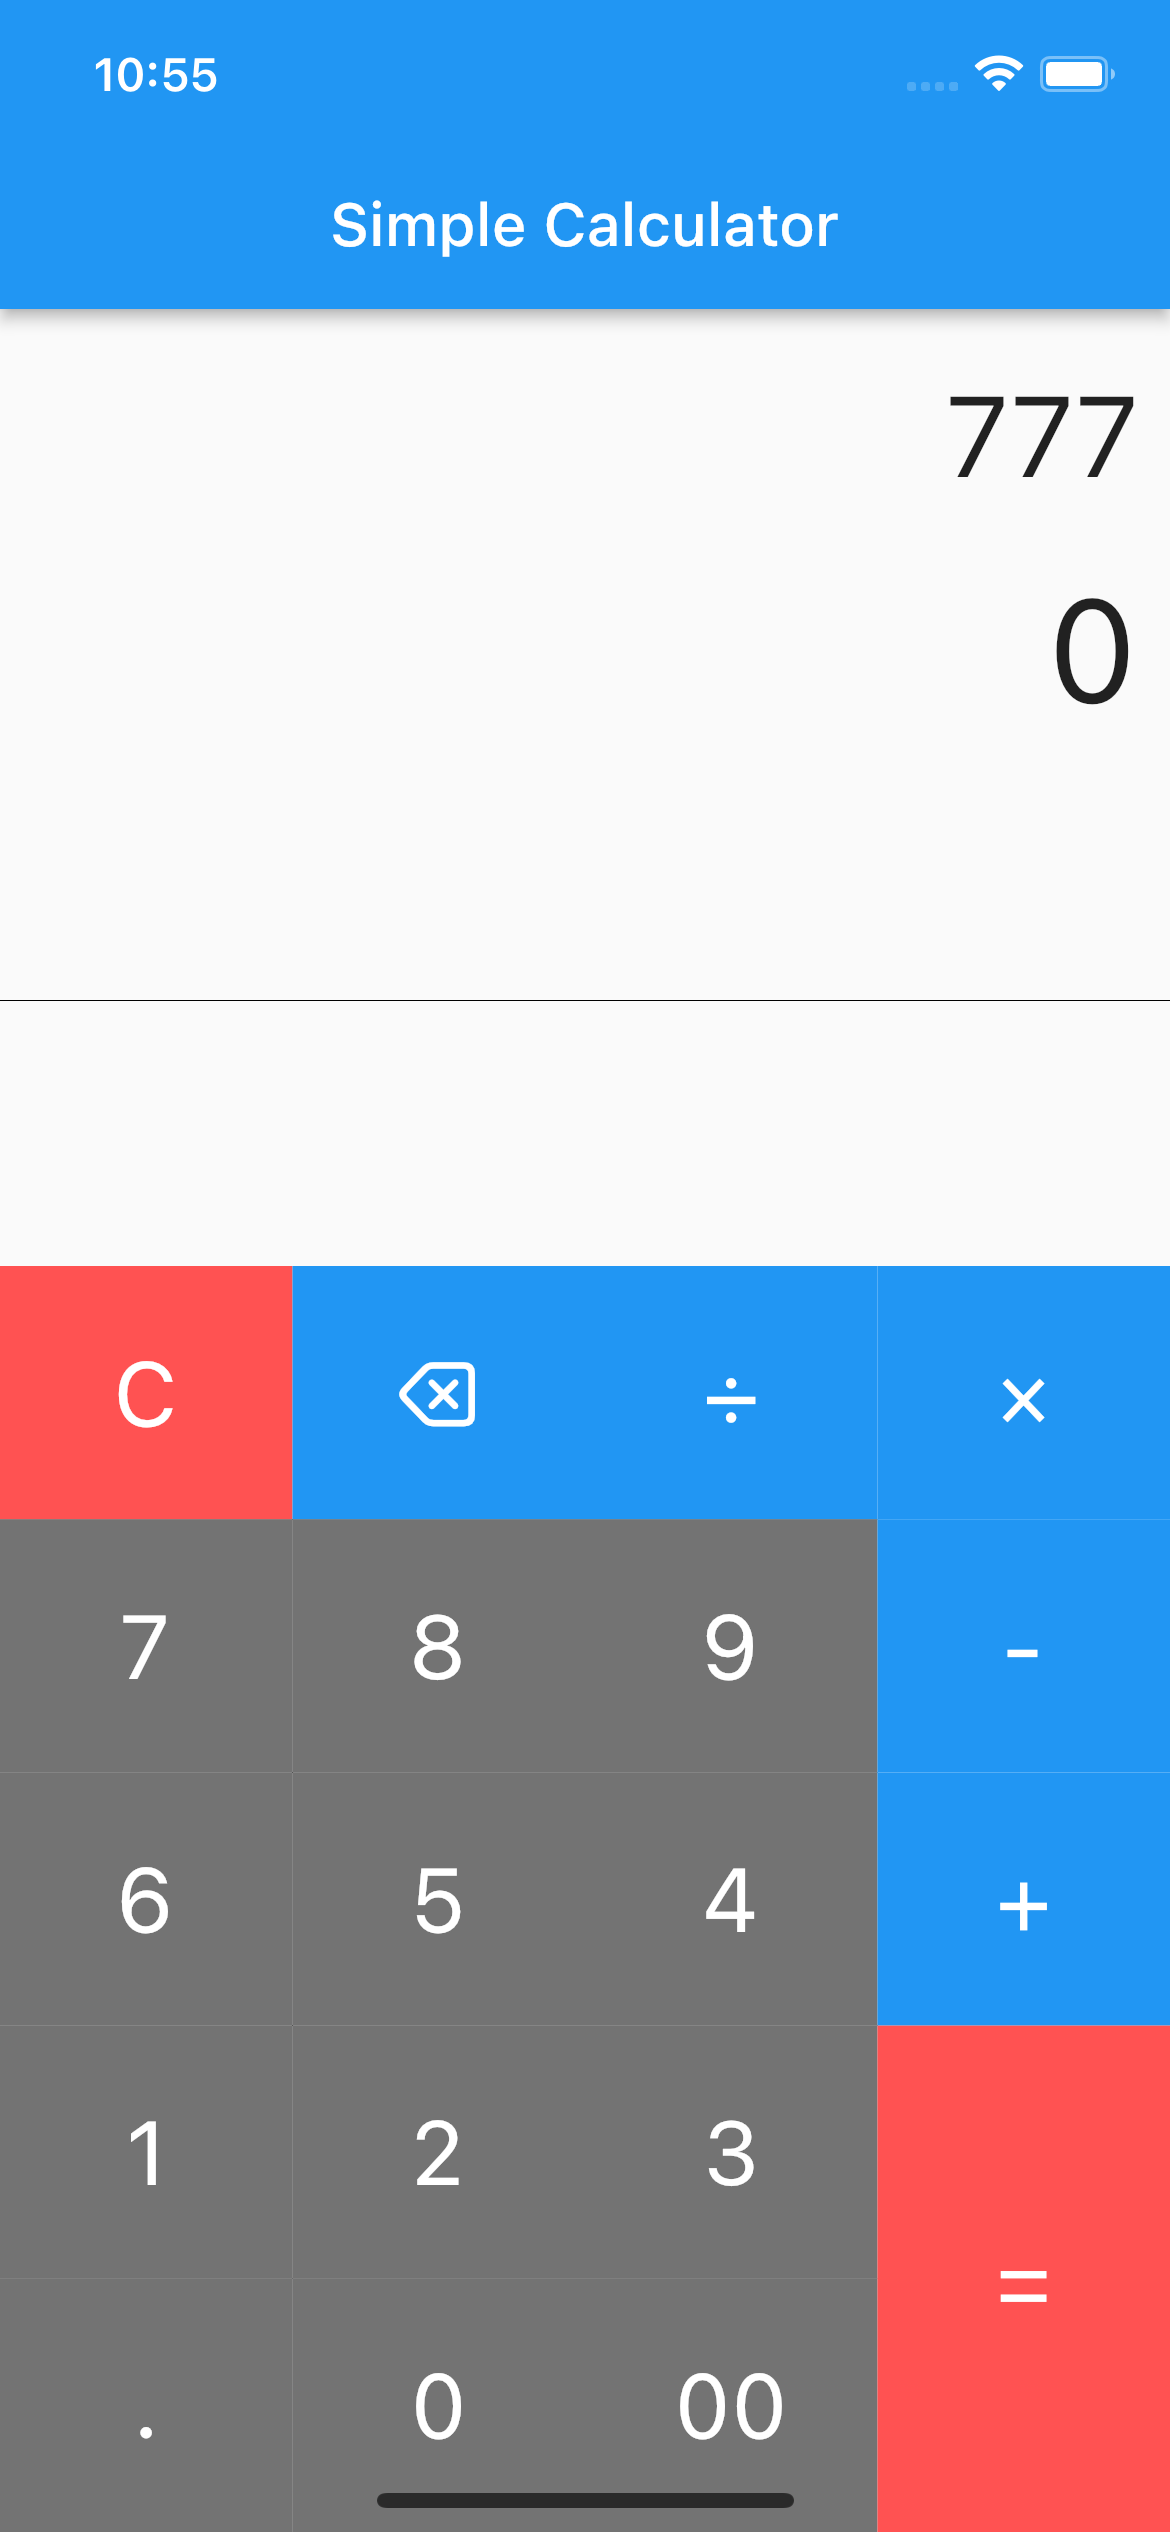
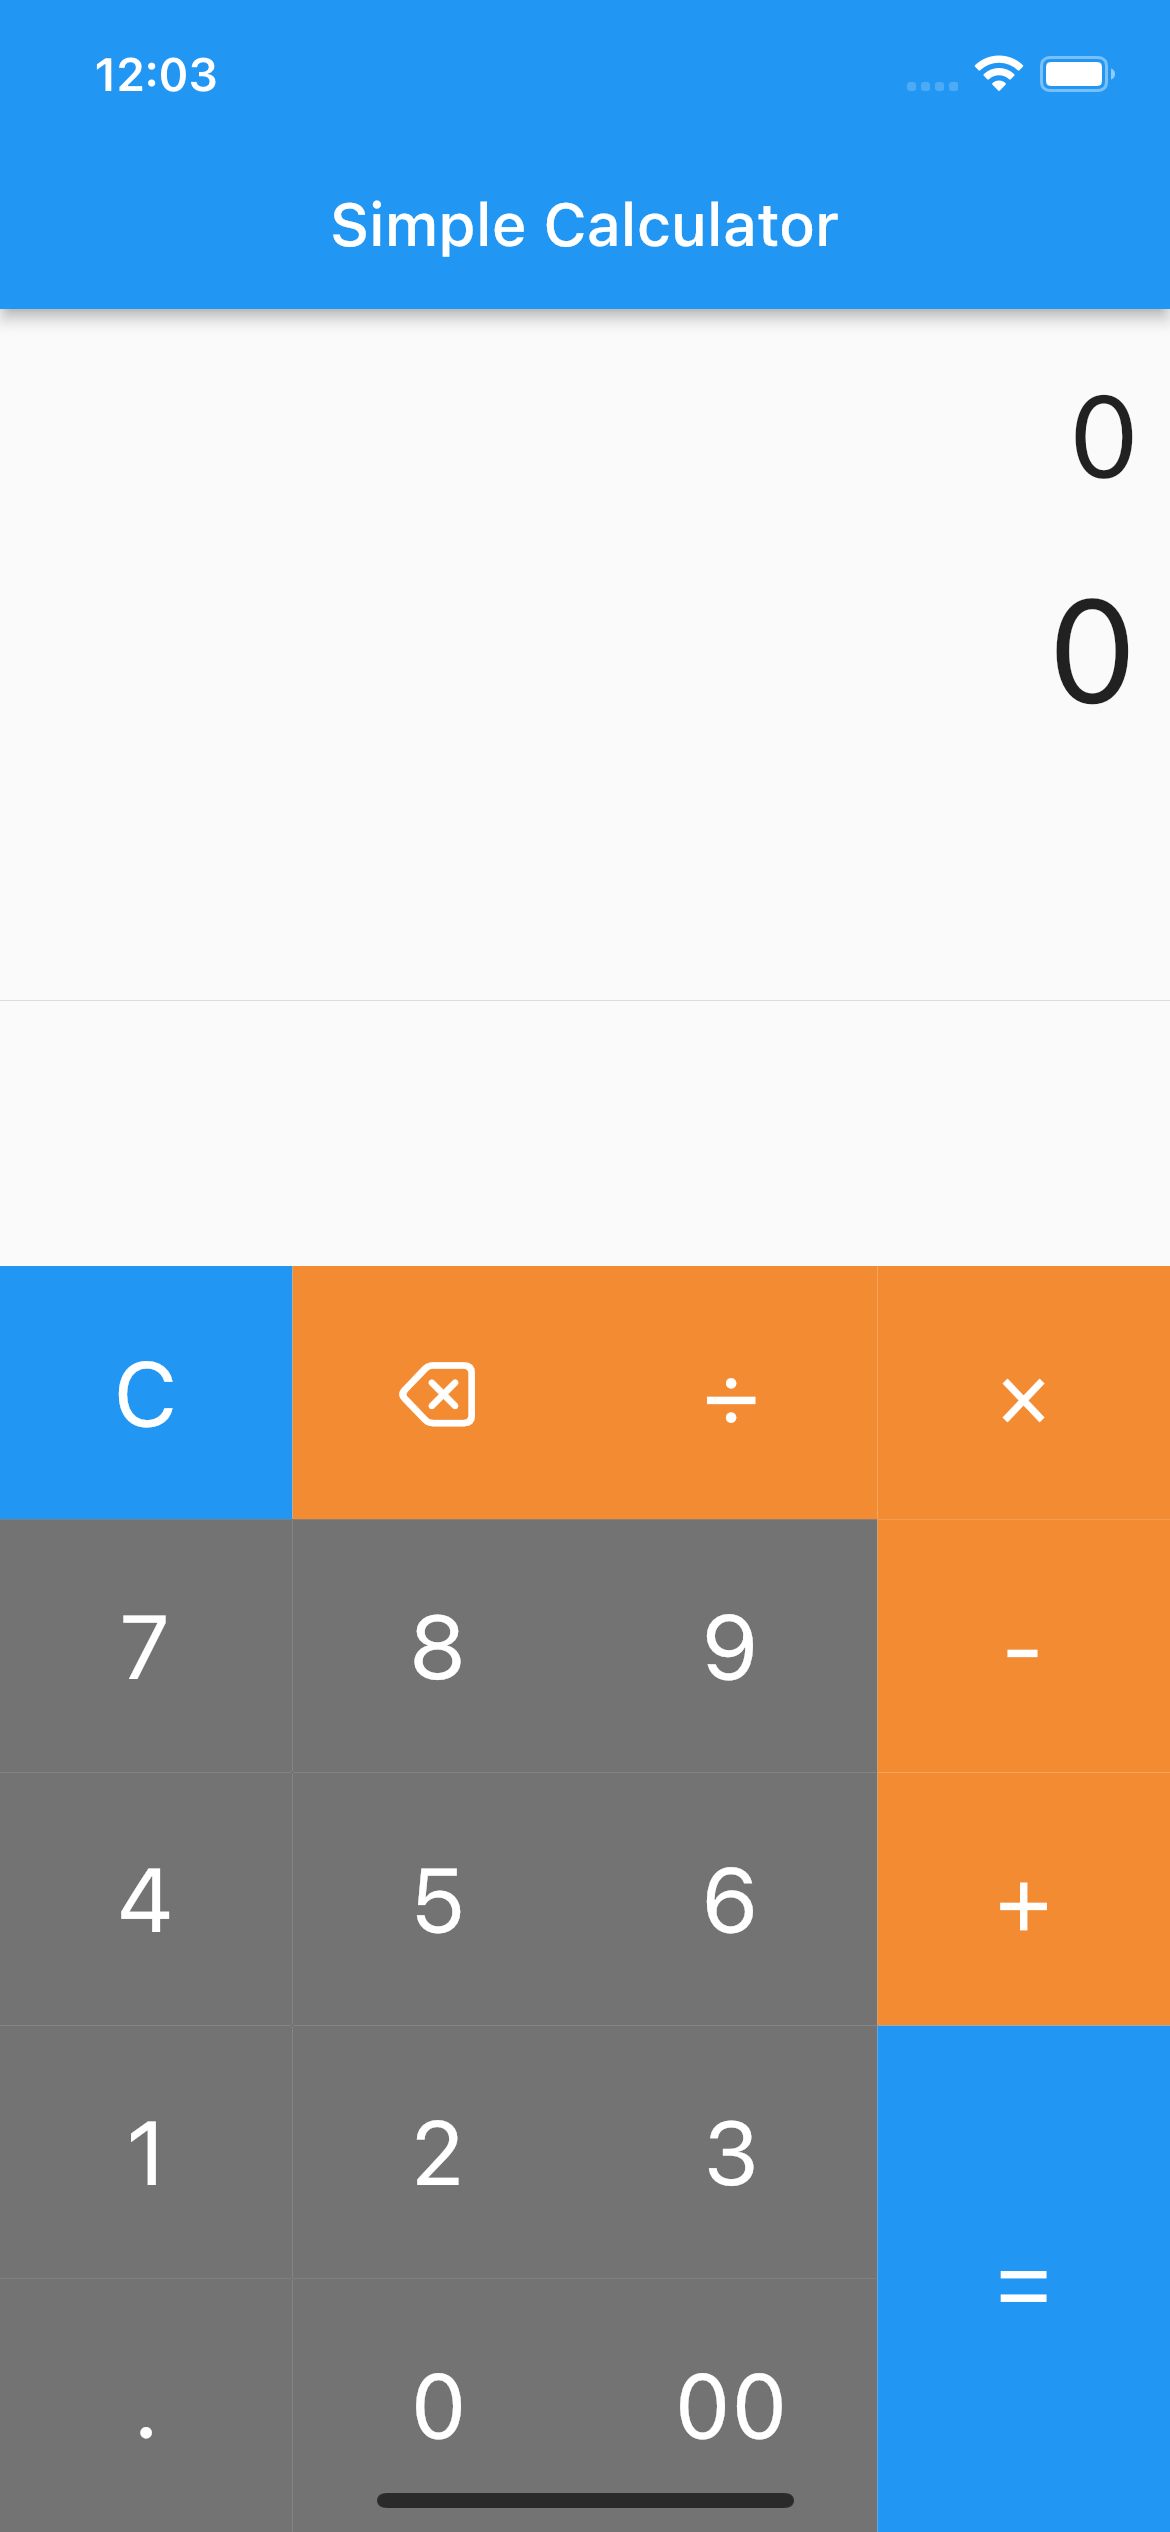
Screenshot Update

diff --git a/lib/view/home_view.dart b/lib/view/home_view.dart
@@ -40,9 +40,9 @@ class HomeView extends StatelessWidget {
                   children:  [
                     TableRow(
                       children:[
-                       BuildButton(buttonText: "C", buttonHeight: 1, buttonColor: Colors.redAccent),
-                       BuildButton(buttonText: "⌫", buttonHeight: 1, buttonColor: Colors.blue),
-                       BuildButton(buttonText: "÷", buttonHeight: 1, buttonColor: Colors.blue),
+                       BuildButton(buttonText: "C", buttonHeight: 1, buttonColor: Colors.blue),
+                       BuildButton(buttonText: "⌫", buttonHeight: 1, buttonColor: const Color(0xffF28B31)),
+                       BuildButton(buttonText: "÷", buttonHeight: 1, buttonColor: const Color(0xffF28B31)),
                       ]
                     ),
 
@@ -86,19 +86,19 @@ class HomeView extends StatelessWidget {
                 child: Table(
                   children: [
                     TableRow(
-                      children:[ BuildButton(buttonText: '×', buttonHeight: 1, buttonColor: Colors.blue),
+                      children:[ BuildButton(buttonText: '×', buttonHeight: 1, buttonColor: const Color(0xffF28B31)),
                     ]),
 
                     TableRow(
-                        children:[ BuildButton(buttonText: '-', buttonHeight: 1, buttonColor: Colors.blue),
+                        children:[ BuildButton(buttonText: '-', buttonHeight: 1, buttonColor: const Color(0xffF28B31)),
                         ]),
 
                     TableRow(
-                        children:[ BuildButton(buttonText: '+', buttonHeight: 1, buttonColor: Colors.blue),
+                        children:[ BuildButton(buttonText: '+', buttonHeight: 1, buttonColor: const Color(0xffF28B31)),
                         ]),
 
                     TableRow(
-                        children:[ BuildButton(buttonText: '=', buttonHeight: 2, buttonColor: Colors.redAccent),
+                        children:[ BuildButton(buttonText: '=', buttonHeight: 2, buttonColor: Colors.blue),
                         ]),
 
                   ],
